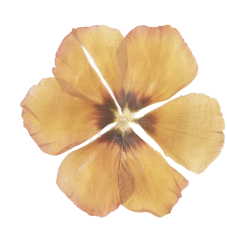
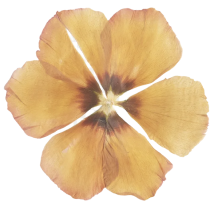
senior grid styling

diff --git a/src/components/TileGrid/SeniorTile.tsx b/src/components/TileGrid/SeniorTile.tsx
@@ -1,5 +1,6 @@
 import { TileEdit } from "./TileEdit";
 import { Senior } from "@prisma/client";
+import Image from "next/image";
 import Link from "next/link";
 
 interface ISeniorTileProps {
@@ -14,7 +15,7 @@ export function SeniorTile({
   refreshData,
 }: ISeniorTileProps) {
   return (
-    <div className="relative flex flex-col aspect-square items-center justify-center rounded bg-white text-base font-medium text-gray-700 drop-shadow-md">
+    <div className="relative w-auto flex flex-col aspect-square items-center rounded bg-white text-base font-medium text-gray-700 drop-shadow-md">
       <div className="absolute top-2 right-2">
         <TileEdit
           options={[
@@ -40,8 +41,19 @@ export function SeniorTile({
           ]}
         />
       </div>
-      <Link href={`/senior/${senior.id}`}>{senior.name}</Link>
-      <p>{senior.location}</p>
+      <div className="flex flex-col h-1/2 justify-end">
+          <Image
+            className="object-scale-down"
+            src={"/home/yellowflower.png"}
+            alt="Placeholder profile image"
+            height={75}
+            width={75}
+          />
+        </div>
+        <div className="relative h-1/2 w-full p-2 flex flex-col font-medium text-center text-lg text-neutral-600">
+            <span className="font-semibold break-words px-2"> {senior.name} </span>
+            <p className="text-md font-base text-neutral-600 truncate px-2">{senior.location}</p>
+        </div>
     </div>
 
 

diff --git a/src/components/TileGrid/StudentTile.tsx b/src/components/TileGrid/StudentTile.tsx
@@ -70,17 +70,17 @@ export function StudentTile({
           width={75}
         />
       </div>
-        <div className="relative h-1/2 w-full p-2 flex flex-col font-medium text-center text-lg text-neutral-600">
+      <div className="relative h-1/2 w-full p-2 flex flex-col font-semibold text-center text-lg text-neutral-600">
           {data && student.name &&
-            <span className={"font-semibold break-words px-2" && student.admin ? "text-tag-rust font-bold" : ""}>
+            <span className={"text-xl break-words px-2" && student.admin ? "text-tag-rust font-bold" : ""}>
               {student.name} {student.admin ? "(Admin)" : ""}
             </span>
           }
 
           {student.email ? (
-            <p className="text-md font-base text-neutral-600 truncate px-2">{student.email}</p>
+            <p className="text-md font-medium text-neutral-600 truncate px-2">{student.email}</p>
             ) : null}
-        </div>
       </div>
+    </div>
   );
 }

diff --git a/src/pages/admin-home.tsx b/src/pages/admin-home.tsx
@@ -157,7 +157,7 @@ function SeniorBody({
   refreshData: () => void;
 }) {
   return (
-    <TileGrid>
+  <div className="grid sm:grid-cols-2 lg:grid-cols-3 xl:grid-cols-4 gap-6 text-center mt-6">
         {seniors.map((senior) => (
           <div key={senior.id}>
             <SeniorTile
@@ -168,7 +168,7 @@ function SeniorBody({
             />
           </div>
         ))}
-    </TileGrid>
+    </div>
   );
 }
 
